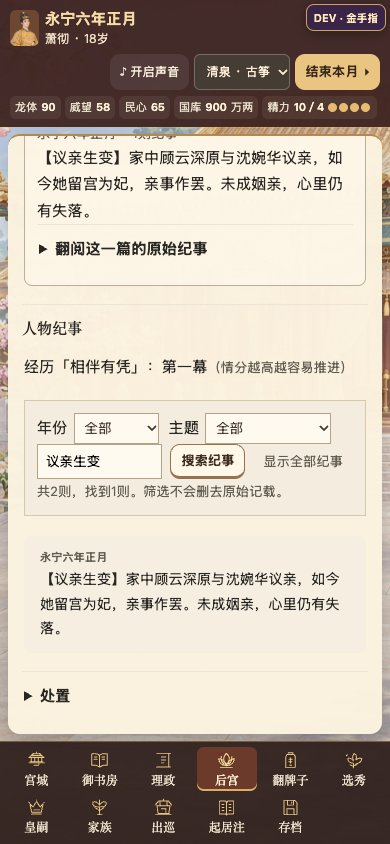
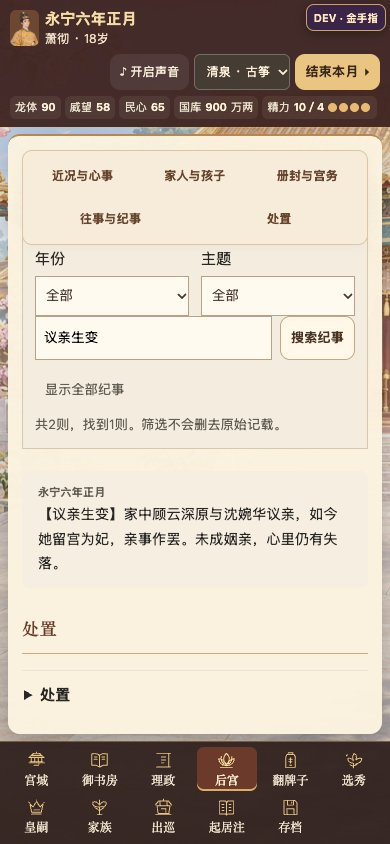
验证新布局下的婚议与旧识并补齐截图

diff --git a/js/kin-visits.js b/js/kin-visits.js
@@ -11,6 +11,11 @@ natalRomanceReady=function(c,p){
 };
 const kinVisitsMeeting=natalMeetingEvent;
 natalMeetingEvent=function(c,p){
+  if(kinVisitsEnabled()&&natalInPalace(c,p)&&p.betrothal&&!matchStillOpen(p.betrothal.match)){
+    const m=p.betrothal.match,e=allianceEntry(m),reason=e?.p.alive===false?'已离世':e?.p.married?'已经另结婚姻':'已不适合继续议亲';
+    delete p.betrothal;p.marriageChecked=S.turn;
+    natalRecord(c,p,`${p.name}探亲时收到家中回信：原议亲对象${m.name}${reason}，原亲事作罢，婚事需另议。`,0);
+  }
   const ev=kinVisitsMeeting(c,p);if(!ev||!visitingMarriageReady(c,p))return ev;
   const b=p.betrothal;
   ev.text+=b?`\n临到告退，${p.name}说起自己的婚事：“家中正与${b.match.desc}${b.match.name}议亲，尚未成婚。民女想请陛下听听这门亲事，也请${natalLabel(c,p)==='妹妹'?'姐姐':'妹妹'}替我参详。”`:
@@ -62,7 +67,7 @@ admitNatalSister=function(c,p){
   natalRecord(c,p,`${p.name}探亲时蒙陛下有意，本人愿意留宫；宫中明告两家，原与${m.desc}${m.name}所议的婚事作罢。`,.1);
   delete p.betrothal;p.marriageChecked=S.turn;p.previousMarriageTalk={turn:S.turn,match:m,outcome:'留宫'};
   if(other){
-    story(other.p,`原与${p.name}议亲，因她探亲后愿意留宫为妃，两家收到告知，亲事作罢，未结为夫妻。`);
+    if(other.p.alive!==false)story(other.p,`原与${p.name}议亲，因她探亲后愿意留宫为妃，两家收到告知，亲事作罢，未结为夫妻。`);
     for(const member of paternalFamily(other.o).filter(x=>S.consorts.includes(x)&&x.alive))
       story(member,`【议亲生变】家中${m.name}原与${p.name}议亲，如今她留宫为妃，亲事作罢。未成姻亲，心里仍有失落。`);
     if(inPalace(c)&&inPalace(other.o))relAdd(c,other.o,-6);

diff --git a/docs/qa/kin-visits-and-old-friends.md b/docs/qa/kin-visits-and-old-friends.md
@@ -12,7 +12,7 @@
 
 ## 自动与浏览器验证
 
-自动测试覆盖赐婚、改议亲留宫、暂缓、婉拒、国库不足、失效选择、身份立绘保留、禁止重复婚嫁、年龄与婚姻边界、旧识关系双向记录、性格与恩宠差距、界面不重新抽签，以及真实版本 10 未完探亲存档的回放。
+合入 `996bfb4` 的页面整理后，全量 **1,019 项自动测试通过**。自动测试覆盖赐婚、改议亲留宫、暂缓、婉拒、国库不足、失效选择、身份立绘保留、禁止重复婚嫁、年龄与婚姻边界、旧识关系双向记录、性格与恩宠差距、界面不重新抽签，以及真实版本 10 未完探亲存档的回放。议亲对象在探亲期间离世或另娶时，会先记明原婚事作罢，不继续把失效对象列作待婚人选，也不会给已故者追加当下的记忆。
 
 Chrome 无头浏览器使用独立临时上下文，按真实界面创建新局、导入四份测试存档、点击选项、刷新页面，再点击「读取自动存档」。状态读取用于断言；不在页面内注入状态或执行选项函数。手机验证为 **390×844 视口**，桌面为 **1440×1000**，并非手机真机测试。
 
